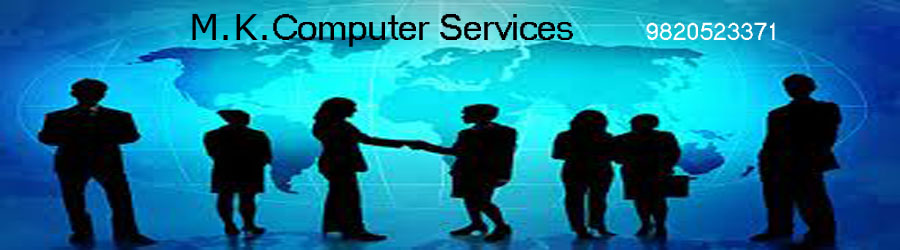
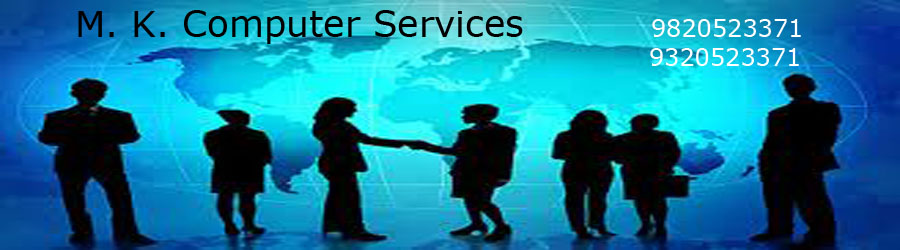
updated

Changed region(s): [[0.0622, 0.028, 0.6533, 0.196], [0.7156, 0.056, 0.9022, 0.28]]

diff --git a/css/bootstrap.css b/css/bootstrap.css
@@ -3482,7 +3482,7 @@ input[type="submit"].btn.btn-mini {
   display: block;
   padding: 10px 20px 10px;
   margin-left: -20px;
-  font-size: 30px;
+  font-size: 40px;
   font-weight: 250;
   color: #FFFFFF;
   
